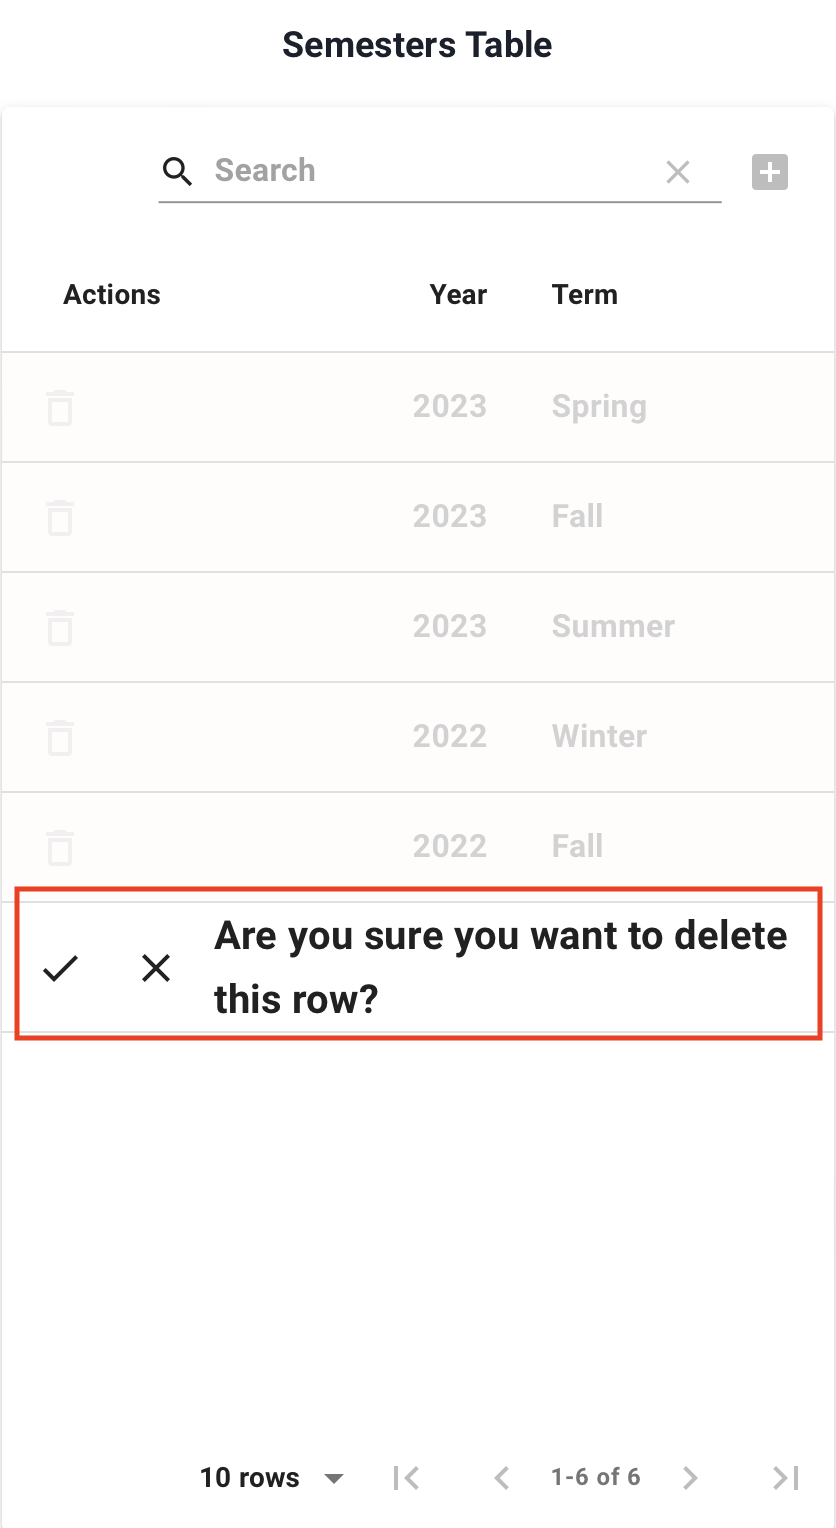
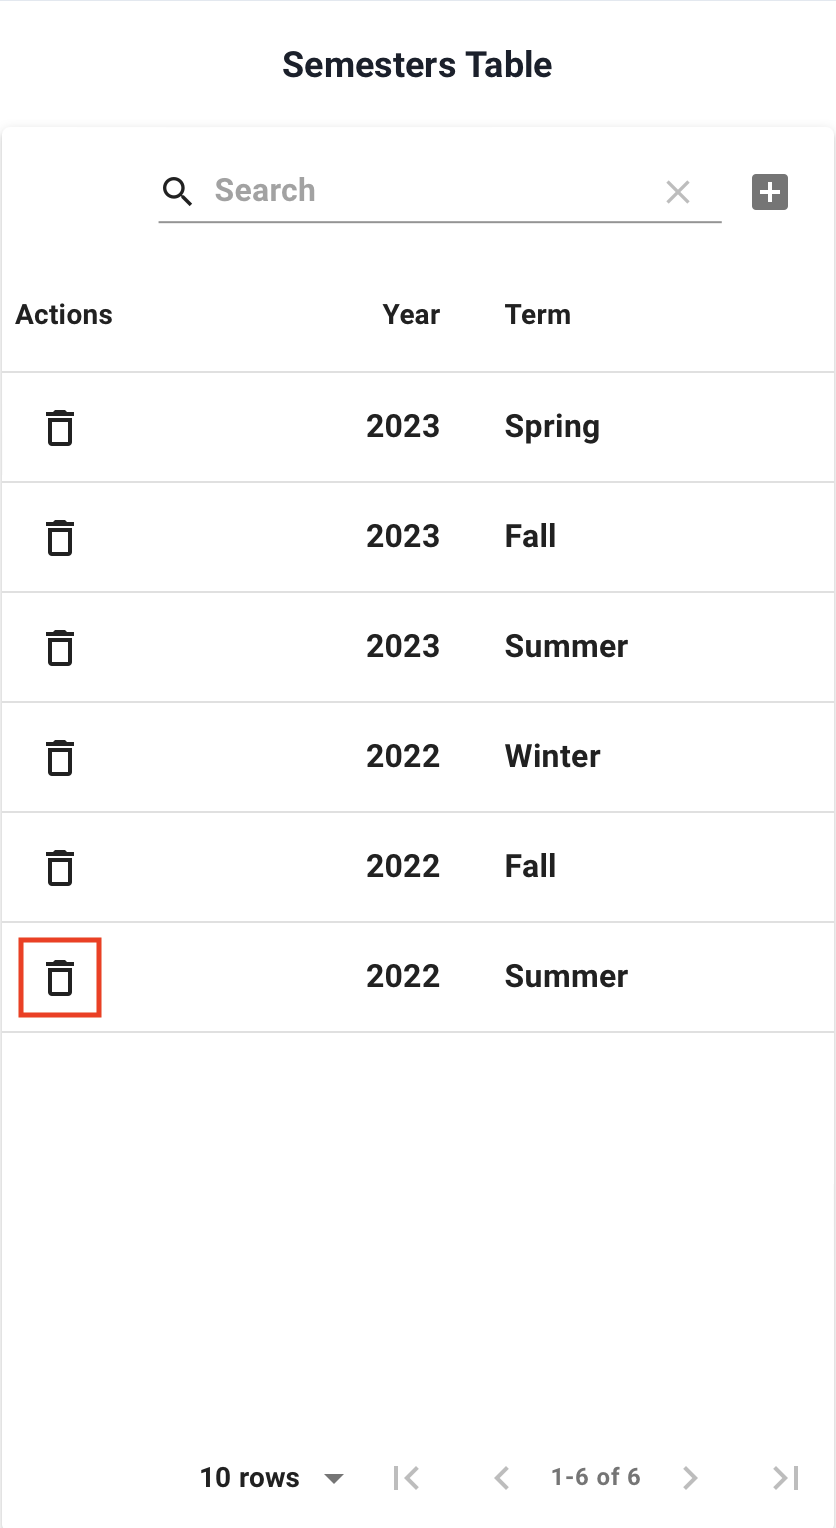
Docsify Update

diff --git a/docs/admin.md b/docs/admin.md
@@ -35,14 +35,15 @@
 ## Semester
 
 ### Add Semester
-
+<kbd><img src='/images/admin/semester/add.png'></img></kbd>
 **1. Click on the “+” symbol on the top right of the table.\
-2. Enter a year (yyyy) and select the semester.\
+2. Enter the "Year" in the format (yyyy).\
+3. Select the semester.\
 3. Click on “✔” to confirm the action.**
 
 
 ### Remove Semester
-
+<kbd><img src='/images/admin/semester/remove.png'></img></kbd>
 **1. Click on the trash can icon.\
 2. Click on “✔” to confirm the action.**
 
